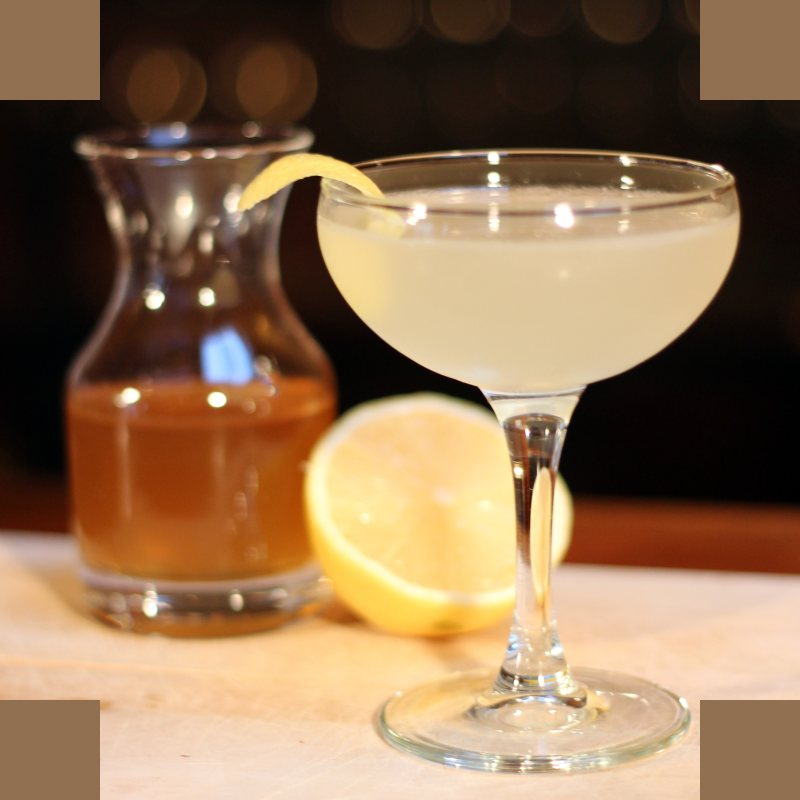
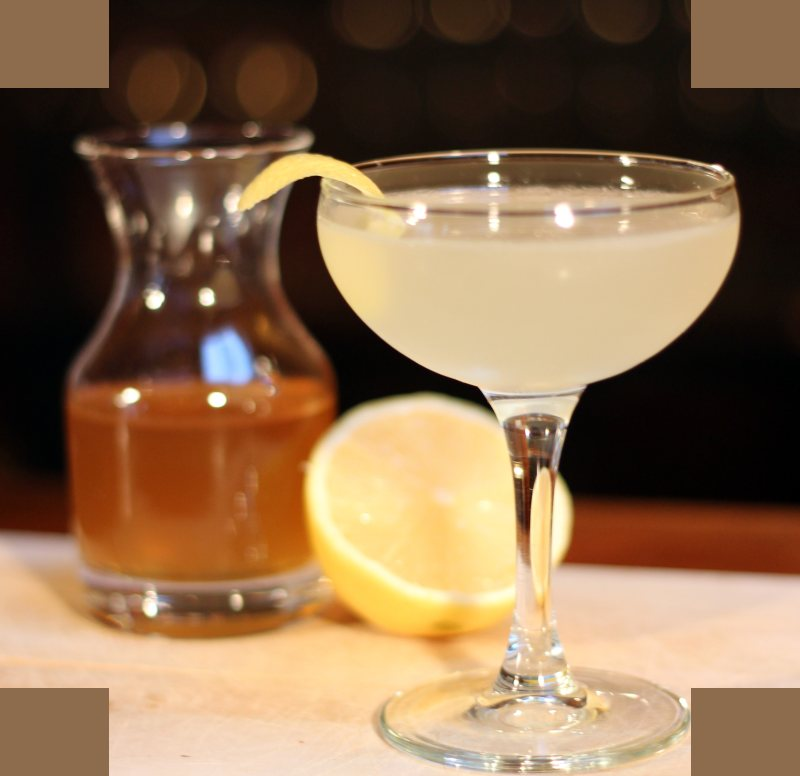
Croix de cadrage : priorité au haut du verre (v0.40.1)
Quand le verre est plus haut que la bande paysage, celle-ci commence juste
au-dessus du bord et de la garniture (Brandy Crusta, Breakfast Martini, Bijou…) :
seul le pied peut être coupé. La colonne portrait garde le même centre ; sur fond
uni, le haut est complété, sinon elle est raccourcie.

Claude-Session: https://claude.ai/code/session_01MGrXtKPwEujzpoV9NF5CqB

diff --git a/app.js b/app.js
@@ -1,7 +1,7 @@
 /* Zeste : logique de l'application. Les données de départ sont dans data.js. */
 'use strict';
 
-const APP_VERSION = '0.40.0';
+const APP_VERSION = '0.40.1';
 const KEY = 'zeste-v1';
 const UNITS = ['ml', 'cl', ['oz', 'oz (→ ml)'], ['cup', 'cup (→ ml)'], 'g', ['', 'sans unité'], 'trait', 'goutte', 'c. de bar', 'c. à café', 'c. à soupe', 'pièce', 'feuille', 'brin', 'quartier', 'tranche', 'pincée', 'à compléter'];
 const PLURAL_UNITS = ['trait', 'goutte', 'pièce', 'feuille', 'brin', 'quartier', 'tranche', 'pincée'];

diff --git a/sw.js b/sw.js
@@ -1,6 +1,6 @@
 /* Zeste : fonctionnement hors ligne.
    Changer VERSION à chaque mise en ligne : les appareils proposent alors la mise à jour. */
-const VERSION = 'zeste-0.40.0';
+const VERSION = 'zeste-0.40.1';
 const ASSETS = [
   './', 'index.html', 'app.css', 'app.js', 'data.js', 'infos.js', 'manifest.webmanifest',
   'icons/icon.svg', 'icons/icon-192.png', 'icons/icon-512.png', 'icons/icon-maskable-192.png', 'icons/icon-maskable-512.png', 'icons/apple-touch-icon.png', 'icons/favicon-32.png',

diff --git a/README.md b/README.md
@@ -43,7 +43,7 @@ Format « en croix », centré sur le verre, pour un seul fichier par recette qu
 - la **colonne centrale**, large des 3/4 de la hauteur de l'image, sur toute la hauteur (600 à 1000 px) : cadrage portrait (3:4), utilisé par les cartes de l'accueil ;
 - les **quatre coins** ne servent à aucun cadrage : couleur unie, qui ne pèse presque rien.
 
-Les deux cadrages ont le même centre, placé sur le verre : chaque cadre de l'appli (4:3, 16:9, 3:4, carré) reste centré sur lui. Une photo 800 × 600 classique fonctionne aussi.
+Les deux cadrages ont le même centre, placé sur le verre : chaque cadre de l'appli (4:3, 16:9, 3:4, carré) reste centré sur lui. Quand le verre est plus haut que la bande paysage, c'est le haut du verre (bord et garniture) qui est gardé : la bande paysage commence juste au-dessus, et seul le pied peut être coupé. Une photo 800 × 600 classique fonctionne aussi.
 
 ## Photos et licences
 
